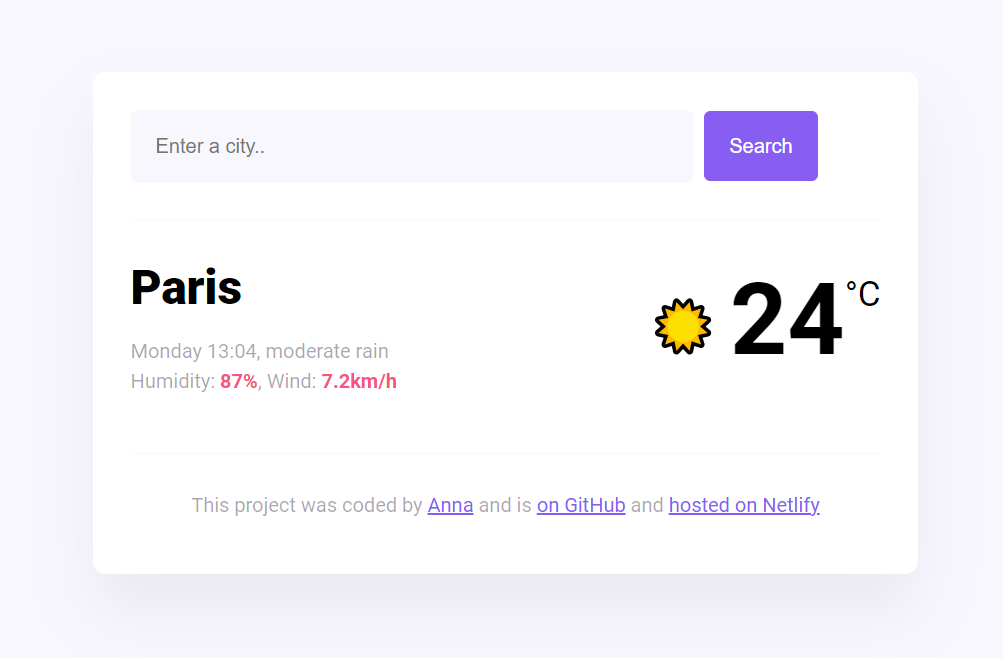
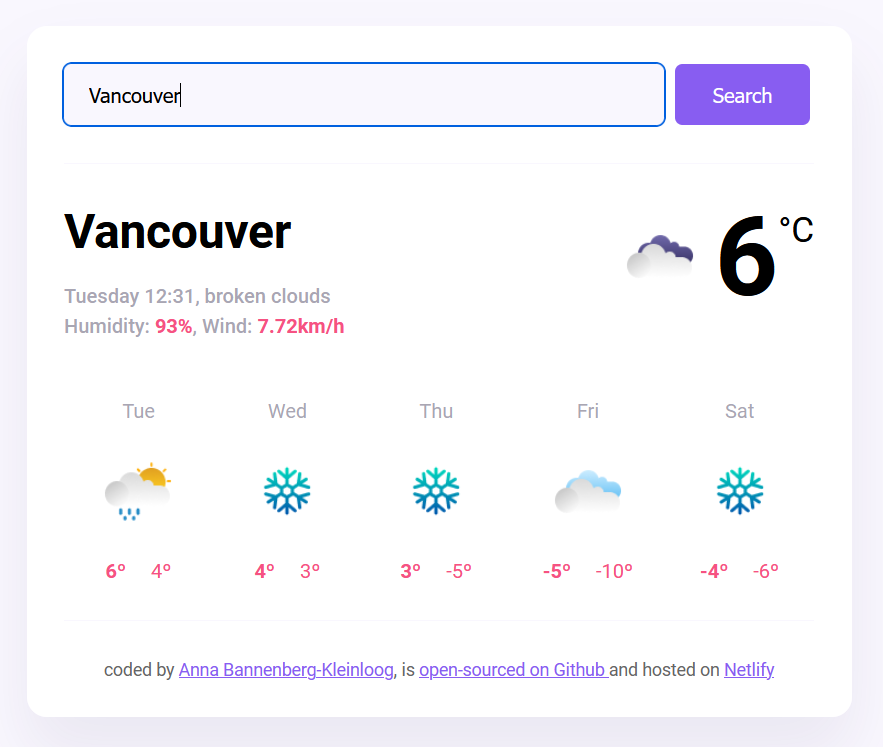
updated forecast project

diff --git a/index.html b/index.html
@@ -199,10 +199,10 @@
               <h3 class="projects__row-content-title">Weather application</h3>
               <p class="projects__row-content-desc">
                An online tool that allows you to see the weather - temperature, humidity and wind - in various cities around the world, collected
-               from an API developed by SheCodes. 
+               from an API developed by SheCodes. Displays both the current weather and the weather forecast of the next five days. 
               </p>
               <a
-                href="https://shecodesplusweek6homework.netlify.app/" target="_blank"
+                href="https://weatherapp-shecodes-week7.netlify.app/" target="_blank"
                 class="btn btn--med btn--theme dynamicBgClr"
                 >Learn more</a
               >
